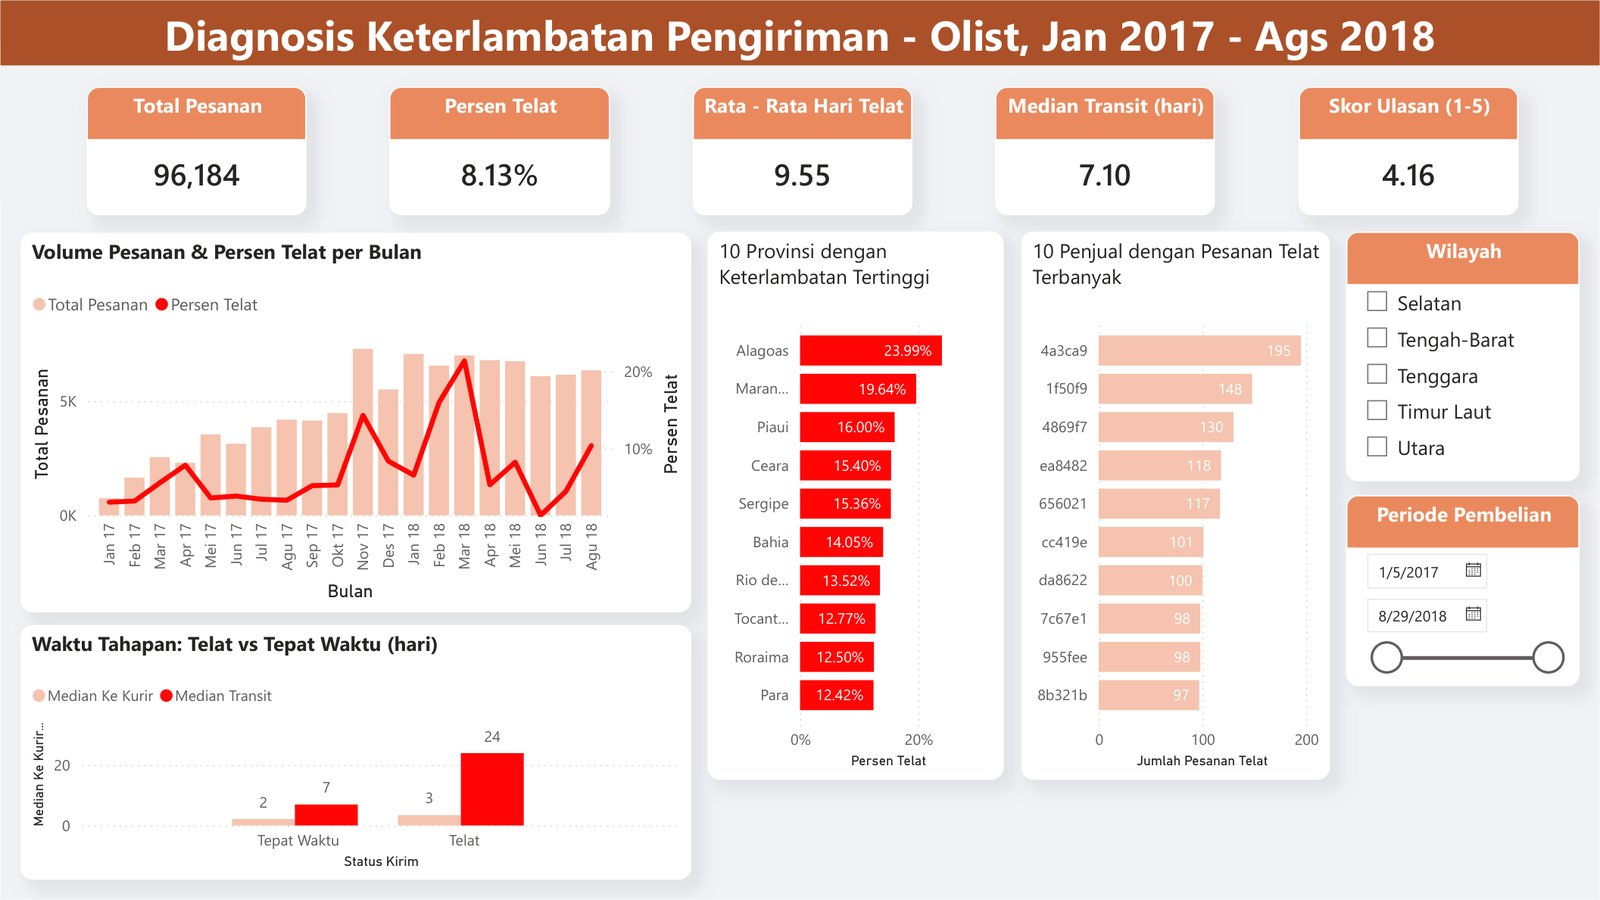
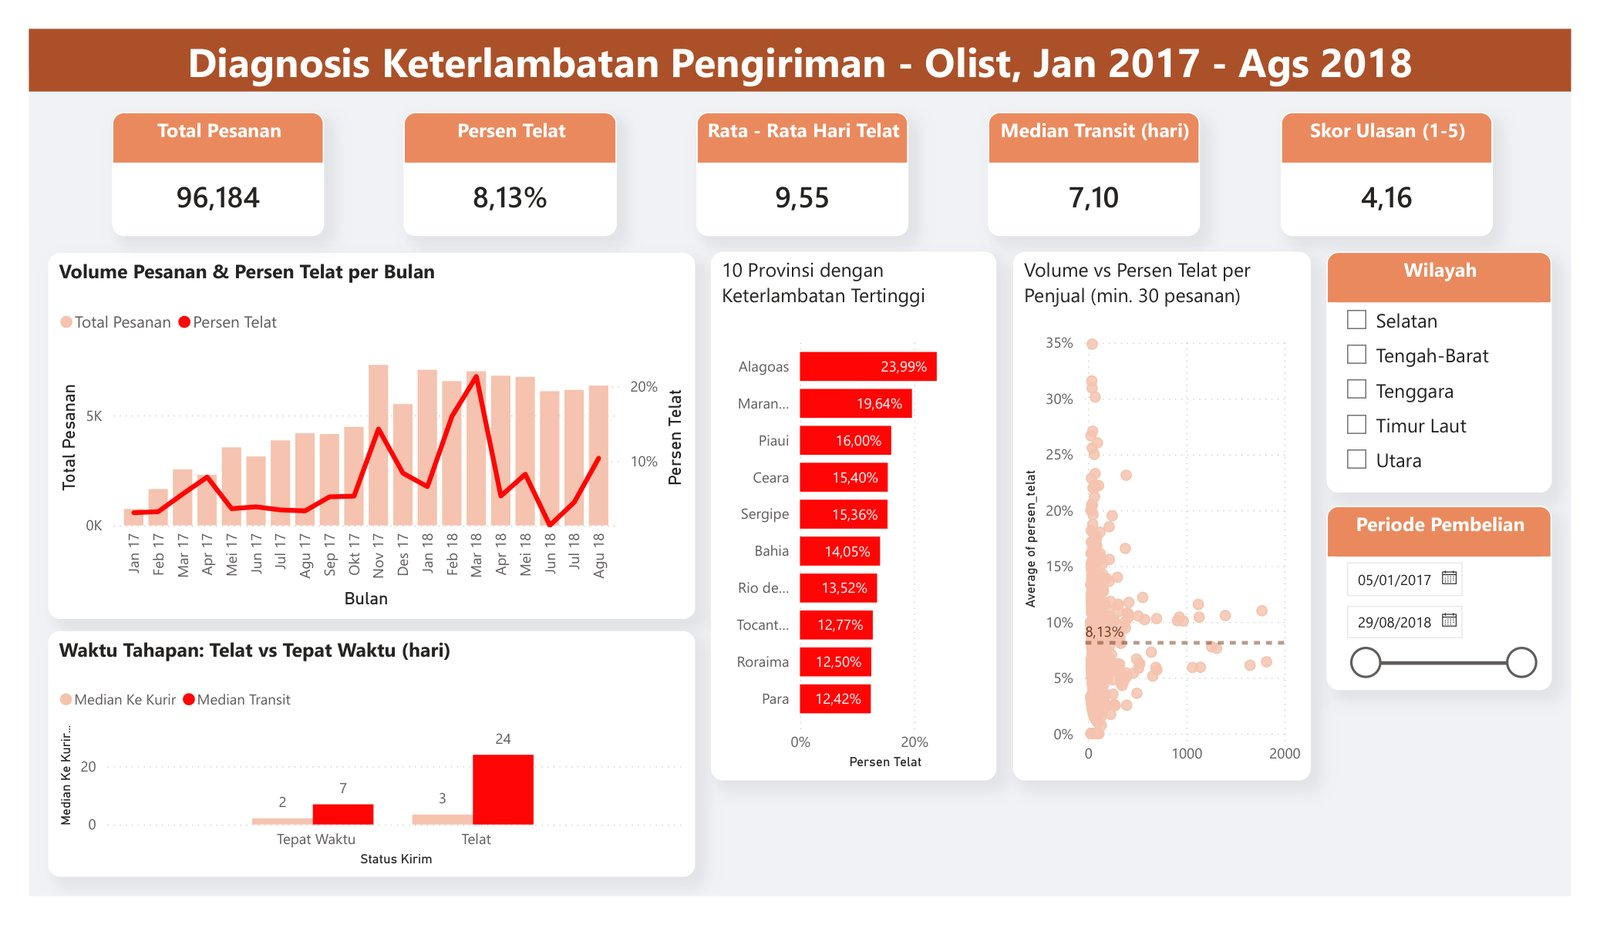
Perbarui data proyek Olist sesuai revisi analisis
══ TEKNIS
- Statistik porsi transit 87% -> 86%: porsi tahap kini dihitung dengan
  rata-rata (86% transit, 14% gudang) dan menyatakan selisih waktu antara
  pesanan telat dan tepat waktu, bukan keterlambatannya sendiri. Label EN/ID
  disesuaikan.
- Label 3.435 diperhalus jadi "perkiraan pelanggan kecewa akibat
  keterlambatan"; klaim validasi jadi "angka-angka utama", bukan "setiap
  angka".
- olist-dashboard.jpg diganti dari dashboard_overview.png (2075x1200),
  diperkecil ke 1600x925, JPEG ~85 (170 KB -> 158 KB). Grafik "10 Penjual"
  sudah jadi scatter. w/h di MEDIA ikut 1600x925; bingkai tetap 16:9 dengan
  object-fit: cover, jadi ~12px atas-bawah terpotong di margin putih.
- Komentar GAMBAR dan README diperbarui sesuai sumber gambar baru.

══ BAHASA AWAMNYA
Angka dan gambar di kartu proyek Olist disamakan dengan versi analisis
terbaru, dan beberapa kalimat dibuat lebih hati-hati supaya tidak
mengklaim lebih dari yang dihitung.

diff --git a/src/components/Projects.jsx b/src/components/Projects.jsx
@@ -26,7 +26,11 @@ import { useText } from "../i18n/lang.jsx";
  * dulu sumbernya.
  *
  * GAMBAR:
- *   Olist        halaman 3 olist_ops_dashboard.pdf, dirender 1600x900
+ *   Olist        05_dashboard/dashboard_overview.png (2075x1200) dari repo
+ *                proyeknya, diperkecil ke 1600x925 (JPEG ~85) — 2 Oktober
+ *                2026, setelah grafik "10 Penjual" diganti scatter. Rasionya
+ *                sedikit lebih tinggi dari 16:9, jadi object-fit: cover
+ *                memotong ~12px atas-bawah; yang terpotong margin putih.
  *   Web profil   tangkapan Beranda situs ini, 1440x810 @1,25
  *   Dua magang   foto kegiatan diambil APA ADANYA dari PDF laporannya —
  *                resolusi aslinya memang cuma 365-687px. Karena itu
@@ -86,7 +90,7 @@ const SITE = "https://webprofile-arifherfianzaenchartiko.vercel.app/";
    daripada fotonya. */
 const MEDIA = [
   {
-    images: [{ src: "assets/projects/olist-dashboard.jpg", w: 1600, h: 900 }],
+    images: [{ src: "assets/projects/olist-dashboard.jpg", w: 1600, h: 925 }],
     links: [
       { key: "dashboard", href: OLIST + "/blob/main/05_dashboard/olist_ops_dashboard.pdf" },
       { key: "report", href: OLIST + "/blob/main/06_report/insight_report.pdf" },
@@ -141,12 +145,12 @@ const TEXT = {
         kind: "Data Analysis",
         title: "Diagnosing Delivery Delays at Olist Marketplace",
         context: "Olist’s on-time delivery rate of 91.87% looked healthy. The question was how bad the late orders really were, where the delay came from, and what it cost.",
-        work: "Modeled seven raw CSV files in PostgreSQL, audited data quality, answered five business questions in SQL, cross-checked every figure in Python (pandas) and Excel, and built a Power BI dashboard.",
+        work: "Modeled seven raw CSV files in PostgreSQL, audited data quality, answered five business questions in SQL, cross-checked the key figures in Python (pandas) and Excel, and built a Power BI dashboard.",
         result: "The delay sits in courier transit, not with sellers, and bad reviews jump from 19% to 61% between day 3 and day 7 of lateness. Recommended target: never more than 3 days late, starting with courier networks in the North and Northeast.",
         stats: [
           { value: "96,184", label: "orders analyzed" },
-          { value: "87%", label: "of the delay is in courier transit" },
-          { value: "3,435", label: "avoidable unhappy customers" },
+          { value: "86%", label: "of the extra delay is in courier transit" },
+          { value: "3,435", label: "estimated unhappy customers caused by delays" },
         ],
         tags: ["PostgreSQL", "SQL", "Python", "pandas", "Excel", "Power BI"],
       },
@@ -207,12 +211,12 @@ const TEXT = {
         kind: "Analisis Data",
         title: "Diagnosis Keterlambatan Pengiriman Marketplace Olist",
         context: "Tingkat pengiriman tepat waktu Olist 91,87% tampak sehat. Pertanyaannya: seberapa parah sebenarnya pesanan yang telat, dari mana keterlambatannya berasal, dan berapa kerugiannya.",
-        work: "Memodelkan tujuh berkas CSV mentah di PostgreSQL, mengaudit kualitas datanya, menjawab lima pertanyaan bisnis dengan SQL, mencocokkan ulang setiap angka di Python (pandas) dan Excel, lalu menyusun dashboard Power BI.",
+        work: "Memodelkan tujuh berkas CSV mentah di PostgreSQL, mengaudit kualitas datanya, menjawab lima pertanyaan bisnis dengan SQL, mencocokkan ulang angka-angka utama di Python (pandas) dan Excel, lalu menyusun dashboard Power BI.",
         result: "Keterlambatan ada di transit kurir, bukan di penjual, dan ulasan buruk melonjak dari 19% ke 61% antara hari ke-3 dan ke-7 keterlambatan. Rekomendasinya: target jangan sampai telat lebih dari 3 hari, dimulai dari jaringan kurir wilayah Utara dan Timur Laut.",
         stats: [
           { value: "96.184", label: "pesanan dianalisis" },
-          { value: "87%", label: "keterlambatan terjadi di transit kurir" },
-          { value: "3.435", label: "pelanggan kecewa yang bisa dicegah" },
+          { value: "86%", label: "selisih waktu telat ada di transit kurir" },
+          { value: "3.435", label: "perkiraan pelanggan kecewa akibat keterlambatan" },
         ],
         tags: ["PostgreSQL", "SQL", "Python", "pandas", "Excel", "Power BI"],
       },

diff --git a/README.md b/README.md
@@ -245,8 +245,10 @@ kolase (satu besar, dua kecil) di bingkai 16:9 yang sama. Kolase dipakai
 untuk foto kegiatan magang karena foto itu diambil dari PDF laporan dan
 aslinya cuma 365–687px — di petak kecil ia tidak terlihat pecah, di bingkai
 penuh ia akan pecah. `pos` menggeser potongan foto (`object-position`) supaya
-orangnya tidak terpotong. Gambar dashboard dan tangkapan situs dibuat
-1600×900, JPEG kualitas ~86.
+orangnya tidak terpotong. Tangkapan situs dibuat 1600×900, JPEG kualitas
+~86; gambar dashboard Olist 1600×925 (JPEG ~85, dari `dashboard_overview.png`
+proyeknya) — sedikit lebih tinggi dari 16:9, sisanya terpotong di margin
+putih.
 
 **Isinya diambil dari repo masing-masing**: angka Olist dari README dan
 `insight_report`, isi kedua magang dari laporan akhirnya. Kalau angkanya
